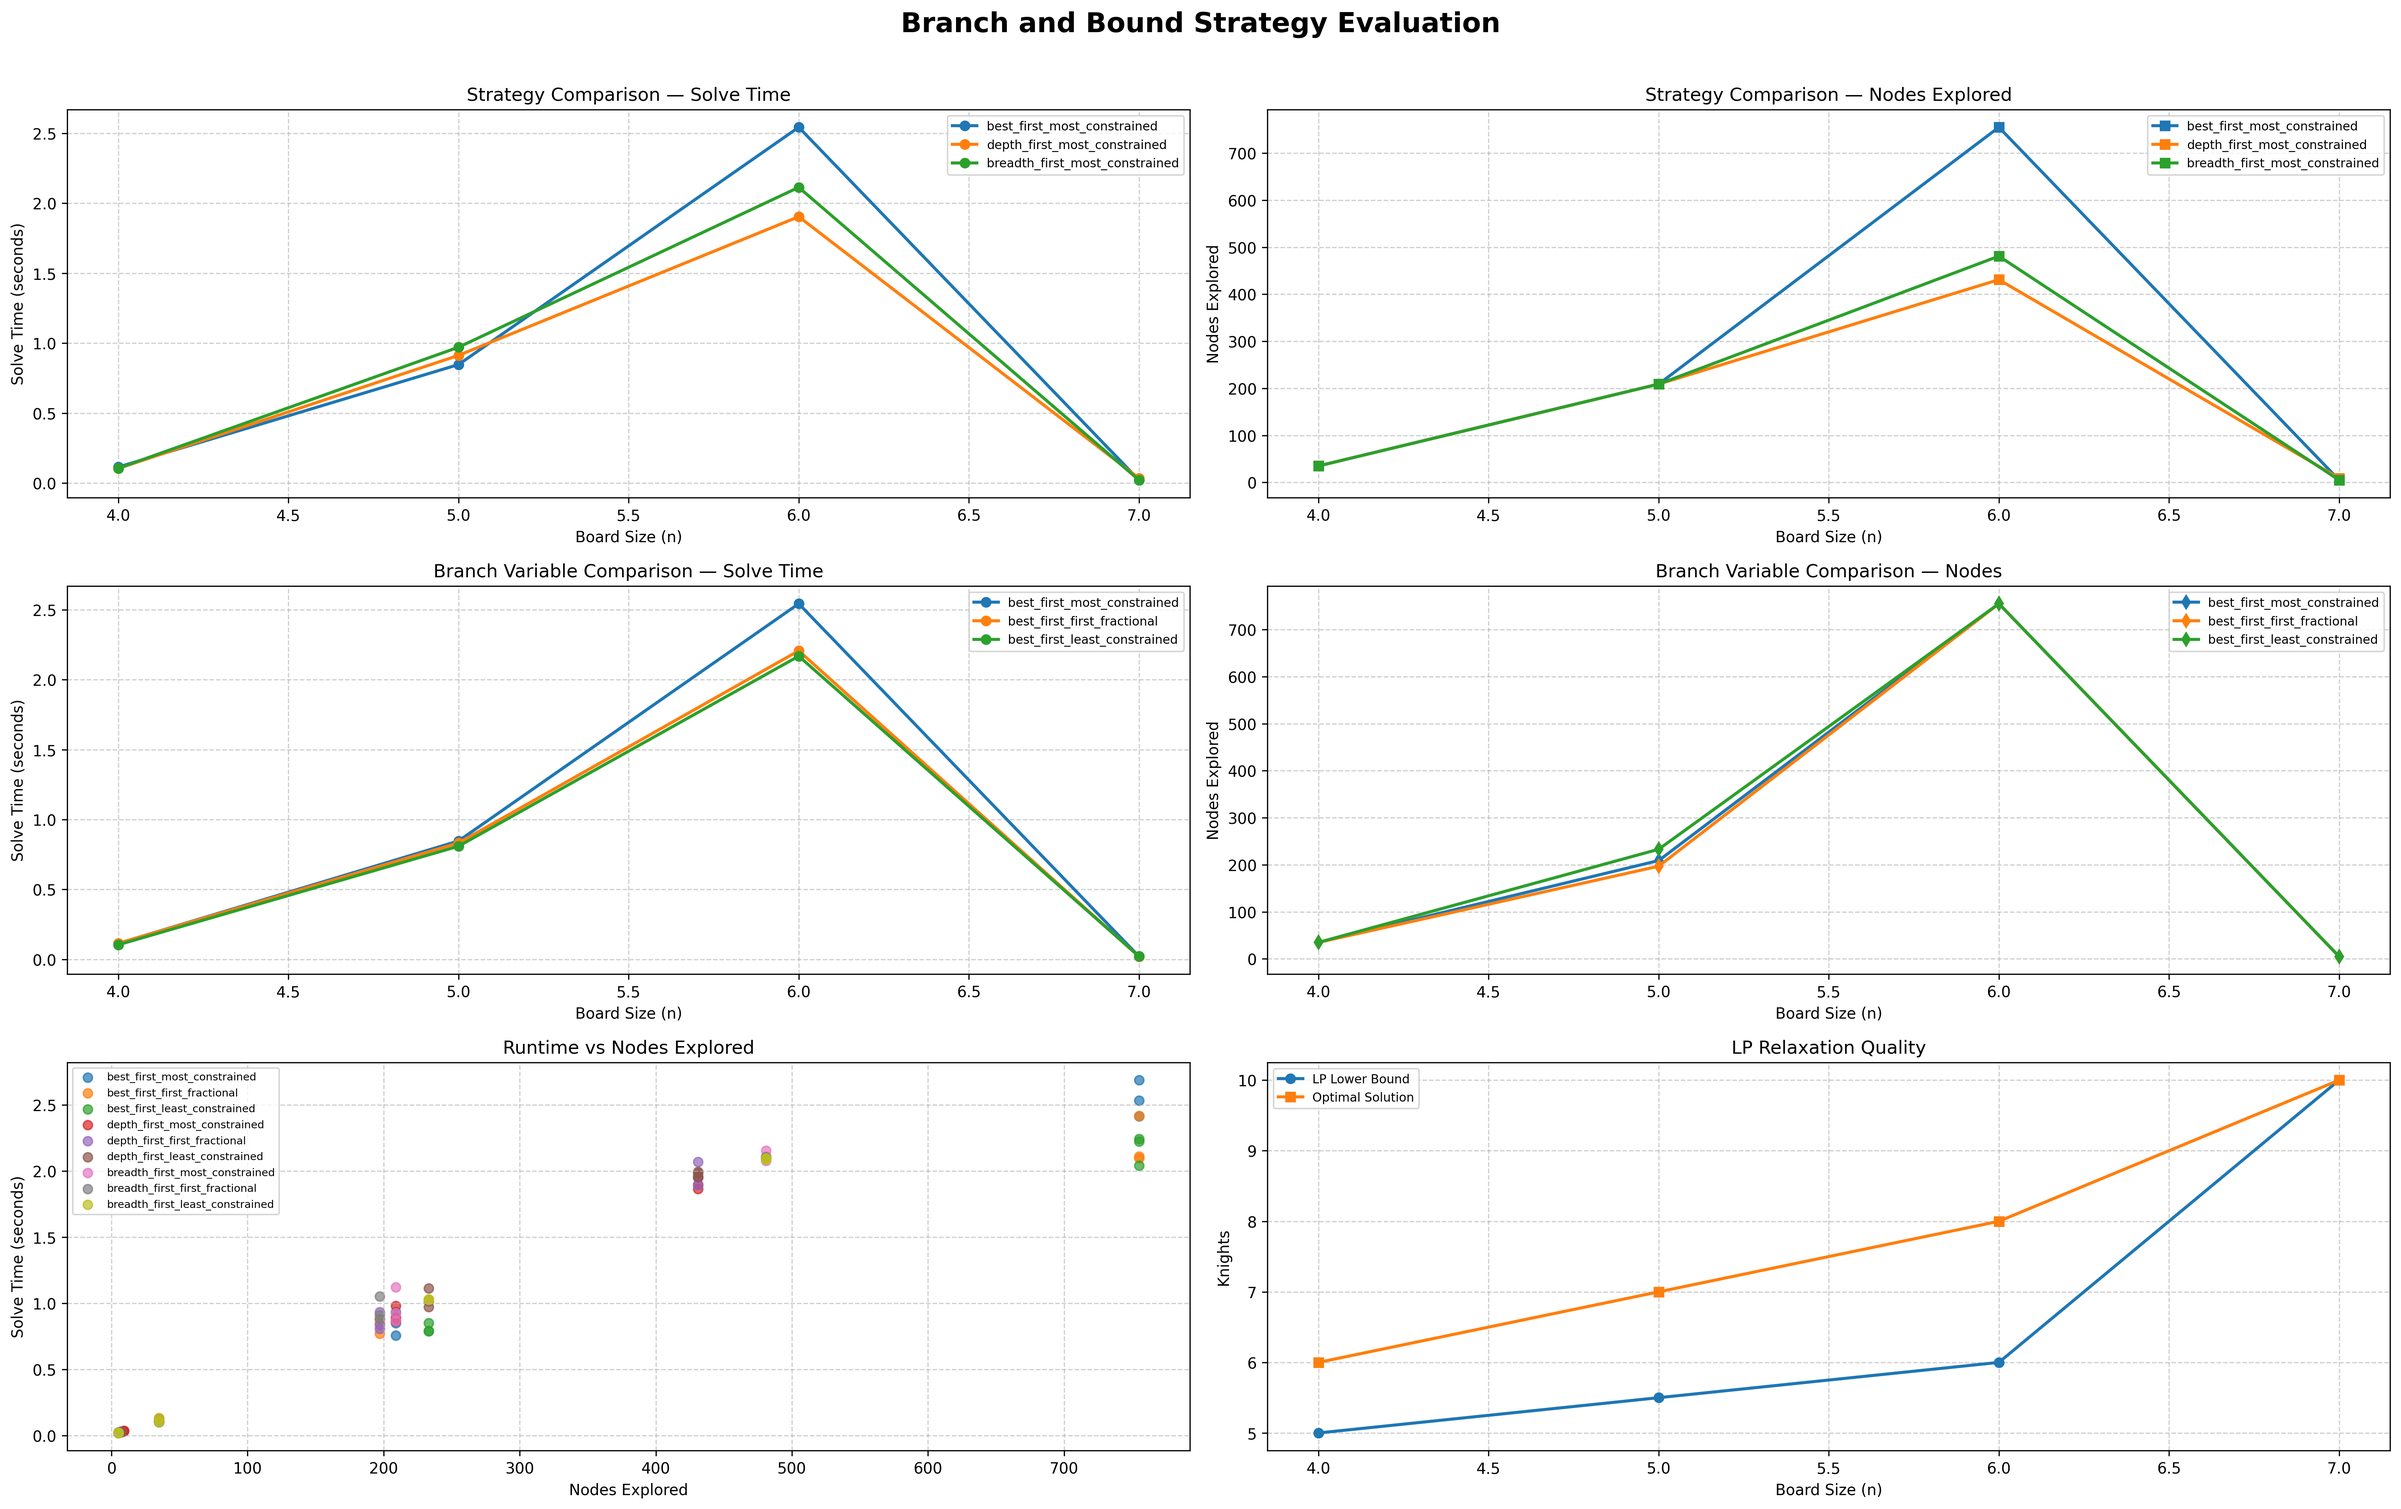
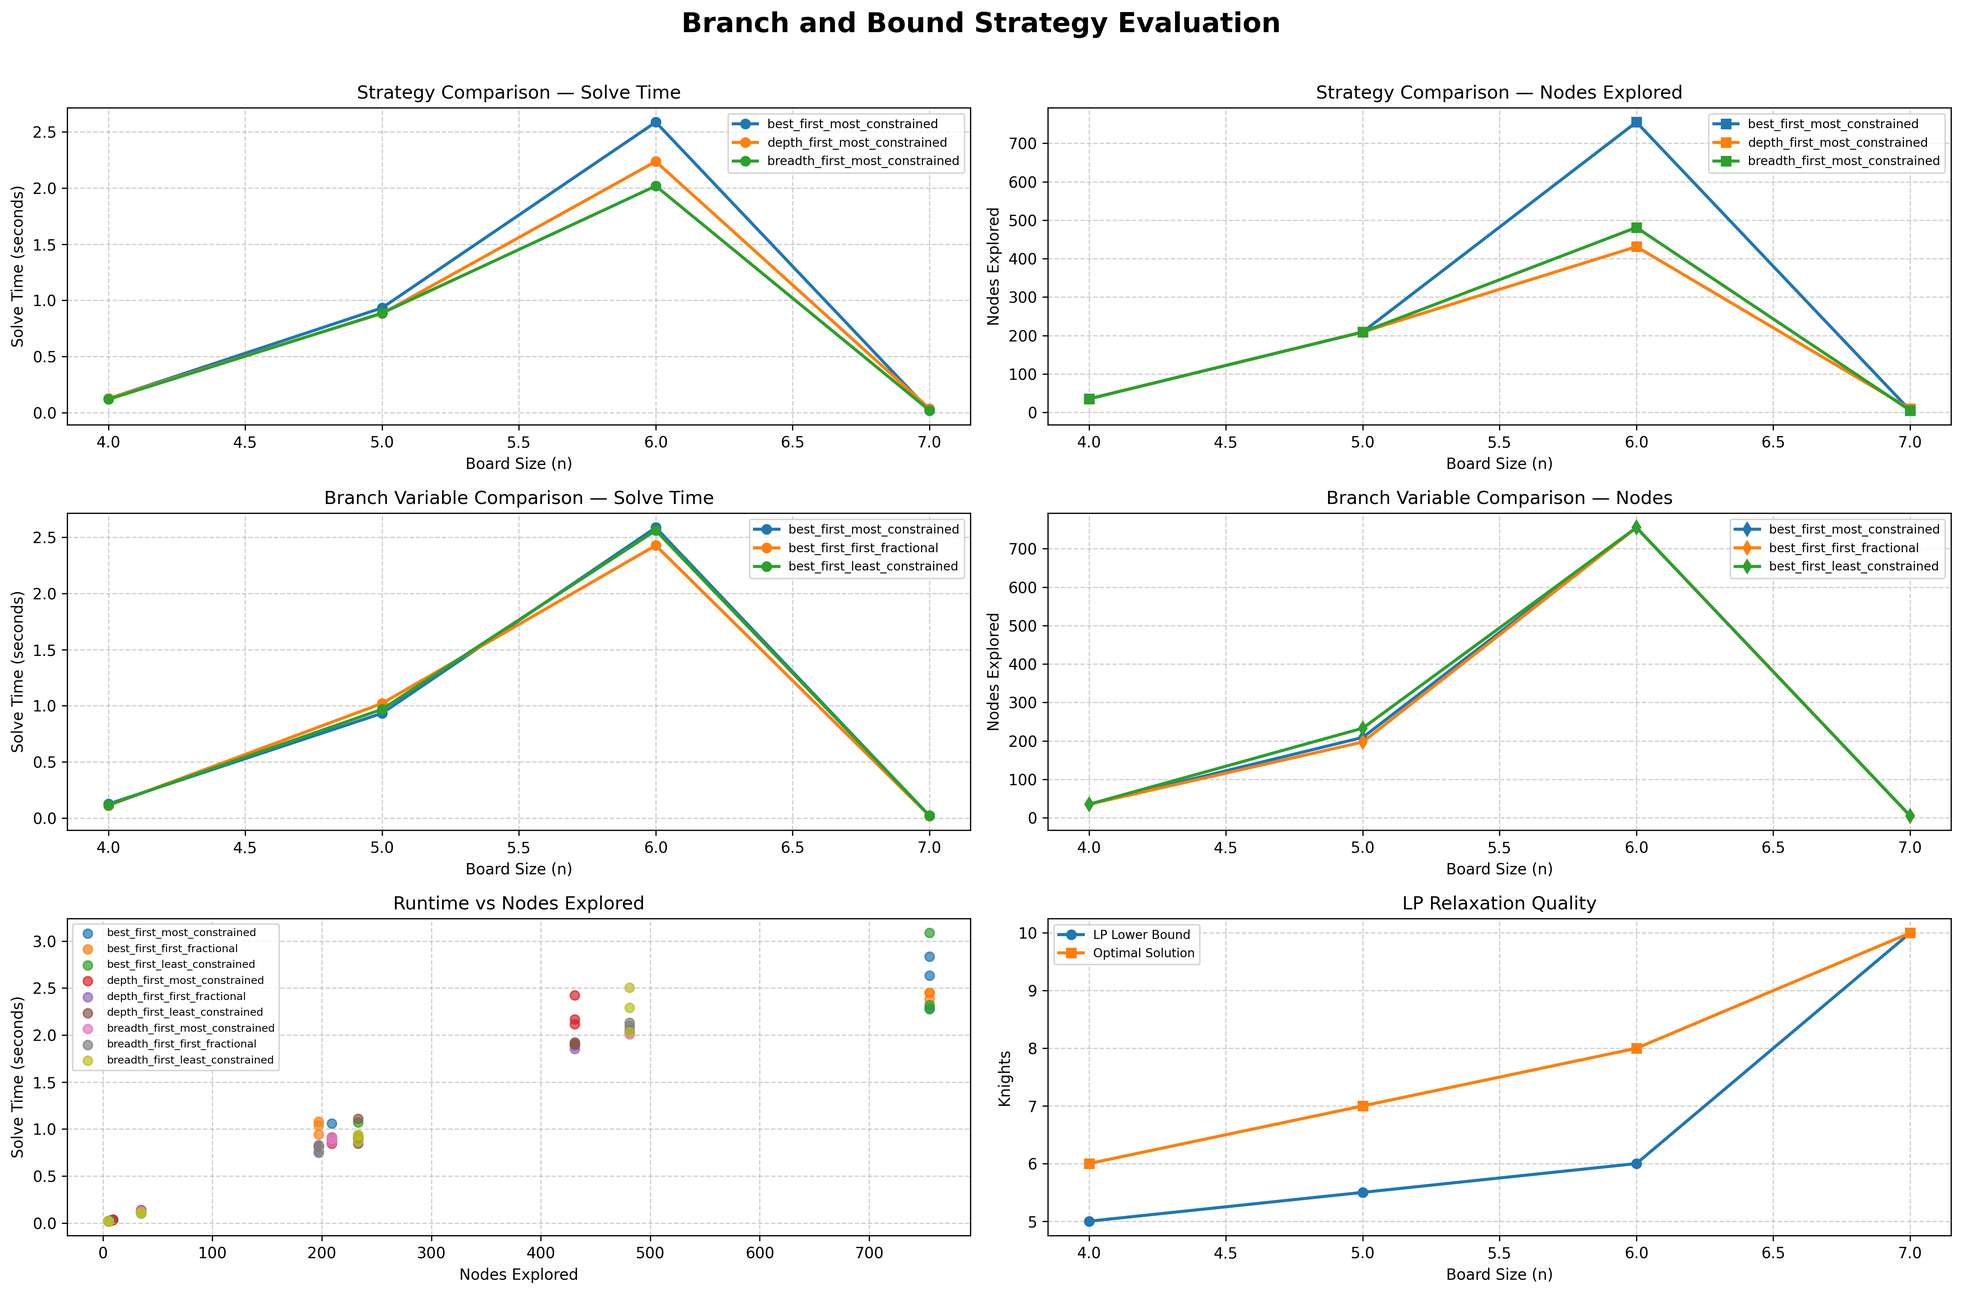
added a tree example visualization

diff --git a/experiments/run_experiments.py b/experiments/run_experiments.py
@@ -74,9 +74,7 @@ def visualize_results(csv_path):
         'results'
     )
 
-    # ==========================================================
-    # CREATE SINGLE DASHBOARD
-    # ==========================================================
+
 
     fig, axes = plt.subplots(
         3,
@@ -90,10 +88,7 @@ def visualize_results(csv_path):
         fontweight='bold'
     )
 
-    # ==========================================================
-    # GRAPH 1
-    # Strategy Time Comparison
-    # ==========================================================
+
 
     for solver in strategy_df['solver'].unique():
 
@@ -128,10 +123,7 @@ def visualize_results(csv_path):
 
     axes[0, 0].legend(fontsize=8)
 
-    # ==========================================================
-    # GRAPH 2
-    # Strategy Nodes Explored
-    # ==========================================================
+
 
     for solver in strategy_df['solver'].unique():
 
@@ -166,10 +158,7 @@ def visualize_results(csv_path):
 
     axes[0, 1].legend(fontsize=8)
 
-    # ==========================================================
-    # GRAPH 3
-    # Branch Variable Solve Time
-    # ==========================================================
+
 
     for solver in branch_df['solver'].unique():
 
@@ -204,10 +193,6 @@ def visualize_results(csv_path):
 
     axes[1, 0].legend(fontsize=8)
 
-    # ==========================================================
-    # GRAPH 4
-    # Branch Variable Nodes
-    # ==========================================================
 
     for solver in branch_df['solver'].unique():
 
@@ -242,10 +227,6 @@ def visualize_results(csv_path):
 
     axes[1, 1].legend(fontsize=8)
 
-    # ==========================================================
-    # GRAPH 5
-    # Runtime vs Nodes
-    # ==========================================================
 
     for solver in df['solver'].unique():
 
@@ -275,10 +256,6 @@ def visualize_results(csv_path):
 
     axes[2, 0].legend(fontsize=7)
 
-    # ==========================================================
-    # GRAPH 6
-    # LP Relaxation Quality
-    # ==========================================================
 
     lower_bounds = df.groupby('n')[
         'lower_bound'
@@ -319,9 +296,7 @@ def visualize_results(csv_path):
 
     axes[2, 1].legend(fontsize=8)
 
-    # ==========================================================
-    # FINAL LAYOUT
-    # ==========================================================
+
 
     plt.tight_layout(
         rect=[0, 0, 1, 0.97]

diff --git a/experiments/visualize_bnb_tree.py b/experiments/visualize_bnb_tree.py
@@ -1,0 +1,128 @@
+import matplotlib.pyplot as plt
+
+
+fig, ax = plt.subplots(figsize=(12, 7))
+
+ax.set_xlim(0, 10)
+ax.set_ylim(0, 10)
+
+ax.axis('off')
+
+
+def draw_node(x, y, text, color="#d9edf7"):
+    ax.text(
+        x,
+        y,
+        text,
+        ha='center',
+        va='center',
+        fontsize=10,
+        bbox=dict(
+            boxstyle="round,pad=0.4",
+            facecolor=color,
+            edgecolor='black'
+        )
+    )
+
+
+def connect(x1, y1, x2, y2):
+    ax.plot(
+        [x1, x2],
+        [y1, y2],
+        color='black',
+        linewidth=1.5
+    )
+
+
+# Root node
+draw_node(
+    5,
+    9,
+    "Root\nLP = 5.5\nUB = 7"
+)
+
+# Level 1
+draw_node(
+    3,
+    6.5,
+    "x12 = 0\nLP = 6.0"
+)
+
+draw_node(
+    7,
+    6.5,
+    "x12 = 1\nLP = 5.8"
+)
+
+connect(5, 8.5, 3, 7)
+connect(5, 8.5, 7, 7)
+
+# Level 2 left
+draw_node(
+    2,
+    4,
+    "Integer\nKnights = 7",
+    color="#dff0d8"
+)
+
+draw_node(
+    4,
+    4,
+    "Pruned\nLP ≥ UB",
+    color="#f2dede"
+)
+
+connect(3, 6, 2, 4.5)
+connect(3, 6, 4, 4.5)
+
+# Level 2 right
+draw_node(
+    6,
+    4,
+    "x7 = 0\nLP = 6.2"
+)
+
+draw_node(
+    8,
+    4,
+    "Pruned\nInfeasible",
+    color="#f2dede"
+)
+
+connect(7, 6, 6, 4.5)
+connect(7, 6, 8, 4.5)
+
+# Final solution
+draw_node(
+    6,
+    1.5,
+    "Optimal\nKnights = 7",
+    color="#dff0d8"
+)
+
+connect(6, 3.5, 6, 2)
+
+plt.title(
+    "Example Branch-and-Bound Search Tree (n=5)",
+    fontsize=18,
+    weight='bold'
+)
+
+plt.figtext(
+    0.5,
+    0.02,
+    "Green nodes indicate integer feasible solutions. "
+    "Red nodes indicate pruned branches.",
+    ha='center',
+    fontsize=11
+)
+
+plt.tight_layout()
+
+plt.savefig(
+    "experiments/results/bnb_tree_visualization.png",
+    dpi=300,
+    bbox_inches='tight'
+)
+
+plt.show()

diff --git a/experiments/board_visualization.py b/experiments/board_visualization.py
@@ -183,7 +183,7 @@ def create_lp_heatmap(n=8):
     plt.figtext(
         0.5,
         0.02,
-        'Darker colors represent variables closer to 1 in the LP relaxation',
+        'Brighter colors represent variables closer to 1 in the LP relaxation',
         ha='center',
         fontsize=12
     )
